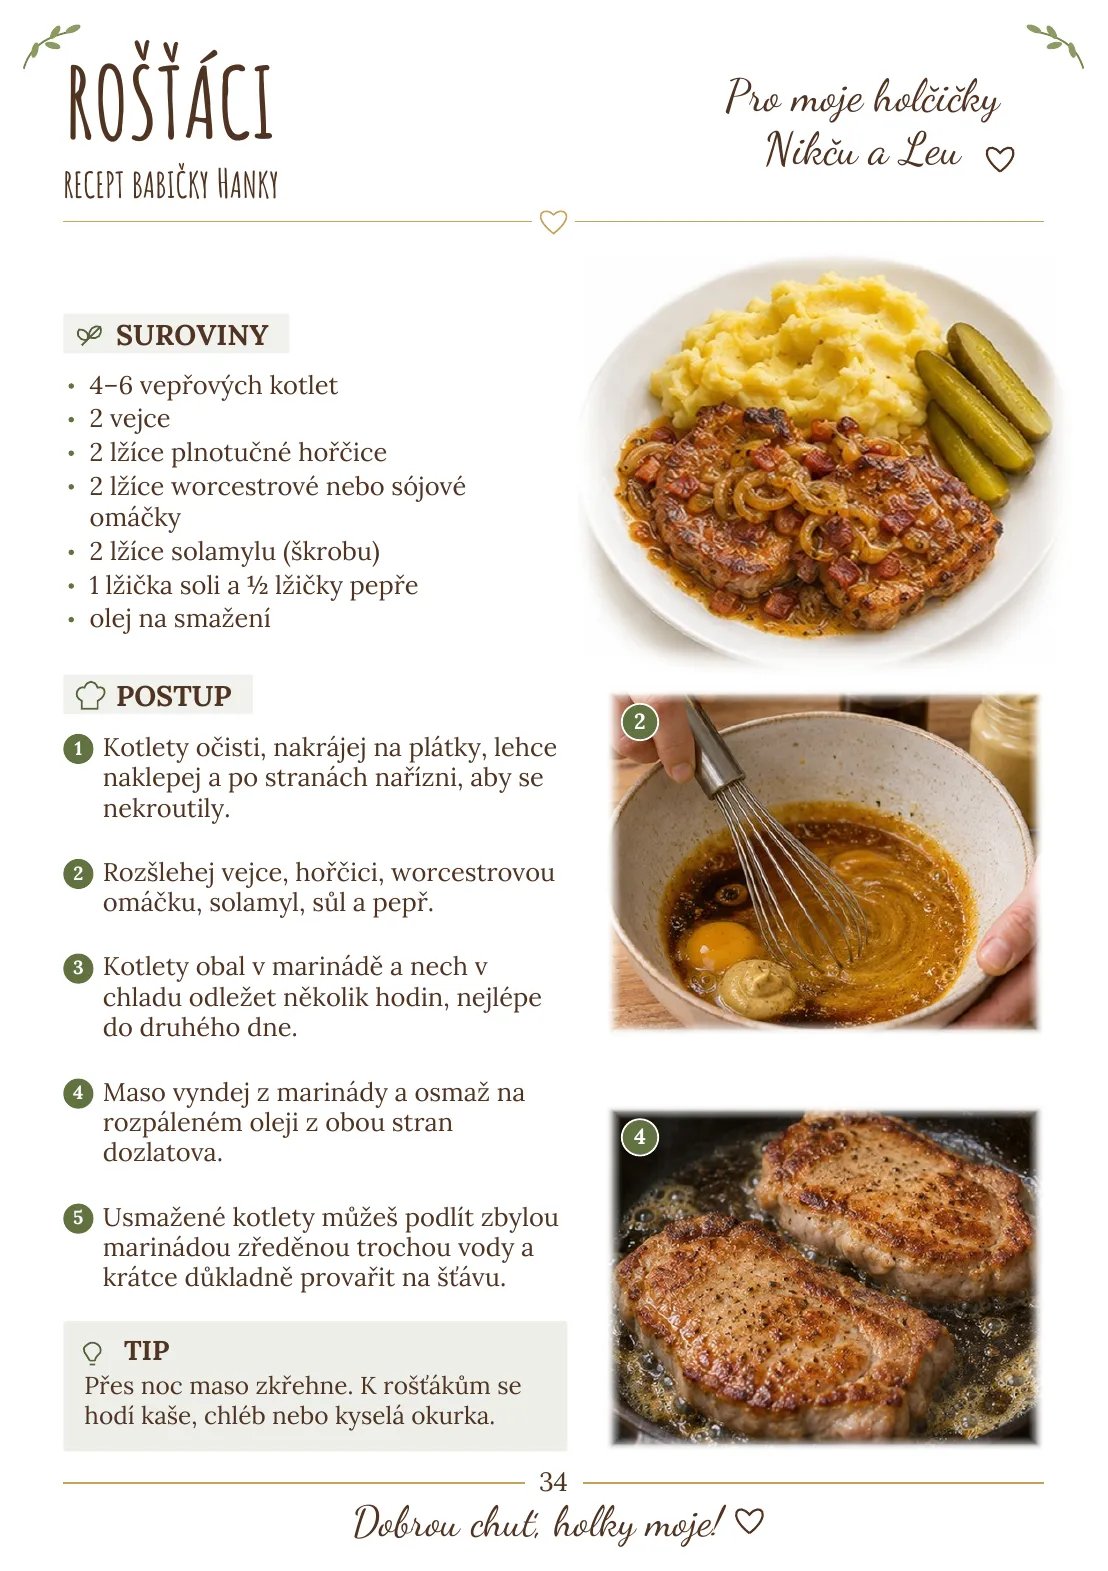
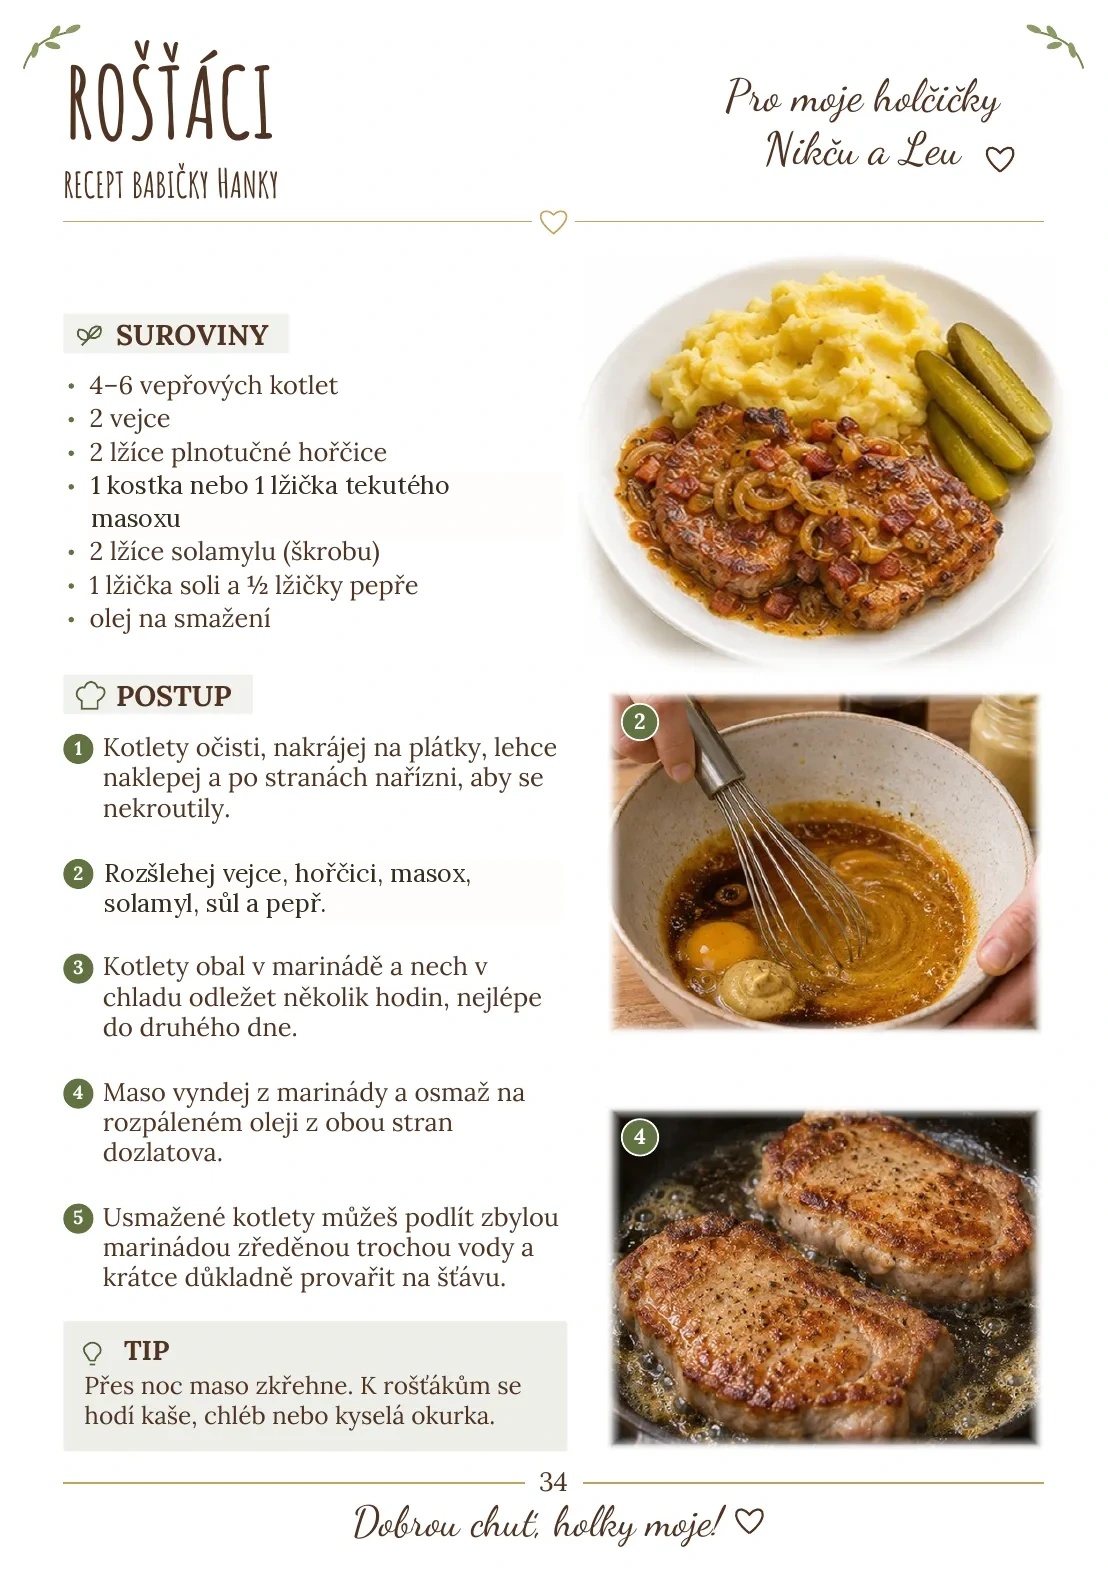
Oprava: Buchta Spála (bez háčku), Rošťáci – masox místo worcestrové omáčky
Claude-Session: https://claude.ai/code/session_01Ws1vwXbsQEwQydLbxLHBm6

Changed region(s): [[0.0921, 0.5302, 0.491, 0.5926], [0.0921, 0.2807, 0.3989, 0.3431]]

diff --git a/sw.js b/sw.js
@@ -1,4 +1,4 @@
-const V='kucharka-v16';
+const V='kucharka-v17';
 const FILES=["./", "index.html", "style.css", "app.js", "data.json", "manifest.webmanifest", "icons/apple-touch-icon.png", "icons/favicon.png", "icons/icon-192.png", "icons/icon-512.png", "icons/icon-maskable-512.png", "pages/p001.webp", "pages/p002.webp", "pages/p003.webp", "pages/p004.webp", "pages/p005.webp", "pages/p006.webp", "pages/p007.webp", "pages/p008.webp", "pages/p009.webp", "pages/p010.webp", "pages/p011.webp", "pages/p012.webp", "pages/p013.webp", "pages/p014.webp", "pages/p015.webp", "pages/p016.webp", "pages/p017.webp", "pages/p018.webp", "pages/p019.webp", "pages/p020.webp", "pages/p021.webp", "pages/p022.webp", "pages/p023.webp", "pages/p024.webp", "pages/p025.webp", "pages/p026.webp", "pages/p027.webp", "pages/p028.webp", "pages/p029.webp", "pages/p030.webp", "pages/p031.webp", "pages/p032.webp", "pages/p033.webp", "pages/p034.webp", "pages/p035.webp", "pages/p036.webp", "pages/p037.webp", "pages/p038.webp", "pages/p039.webp", "pages/p040.webp", "pages/p041.webp", "pages/p042.webp", "pages/p043.webp", "pages/p044.webp", "pages/p045.webp", "pages/p046.webp", "pages/p047.webp", "pages/p048.webp", "pages/p049.webp", "pages/p050.webp", "pages/p051.webp", "pages/p052.webp", "pages/p053.webp", "pages/p054.webp", "pages/p055.webp", "pages/p056.webp", "pages/p057.webp", "pages/p058.webp", "pages/p059.webp", "pages/p060.webp", "pages/p061.webp", "pages/p062.webp", "pages/p063.webp", "pages/p064.webp", "pages/p065.webp", "pages/p066.webp", "pages/p067.webp", "pages/p068.webp", "pages/p069.webp", "pages/p070.webp", "pages/p071.webp", "pages/p072.webp", "pages/p073.webp", "pages/p074.webp", "pages/p075.webp", "pages/p076.webp", "pages/p077.webp", "pages/p078.webp", "pages/p079.webp", "pages/p080.webp", "pages/p081.webp", "pages/p082.webp", "pages/p083.webp", "pages/p084.webp", "pages/p085.webp", "pages/p086.webp", "pages/p087.webp", "pages/p088.webp", "pages/p089.webp", "pages/p090.webp", "pages/p091.webp", "pages/p092.webp", "pages/p093.webp", "pages/p094.webp", "pages/p095.webp", "pages/p096.webp", "pages/p097.webp", "pages/p098.webp", "pages/p099.webp", "pages/p100.webp", "pages/p101.webp", "pages/p102.webp"];
 self.addEventListener('install',e=>{e.waitUntil(caches.open(V).then(c=>c.addAll(FILES)).then(()=>self.skipWaiting()))});
 self.addEventListener('activate',e=>{e.waitUntil(caches.keys().then(k=>Promise.all(k.filter(x=>x!==V).map(x=>caches.delete(x)))).then(()=>self.clients.claim()))});
